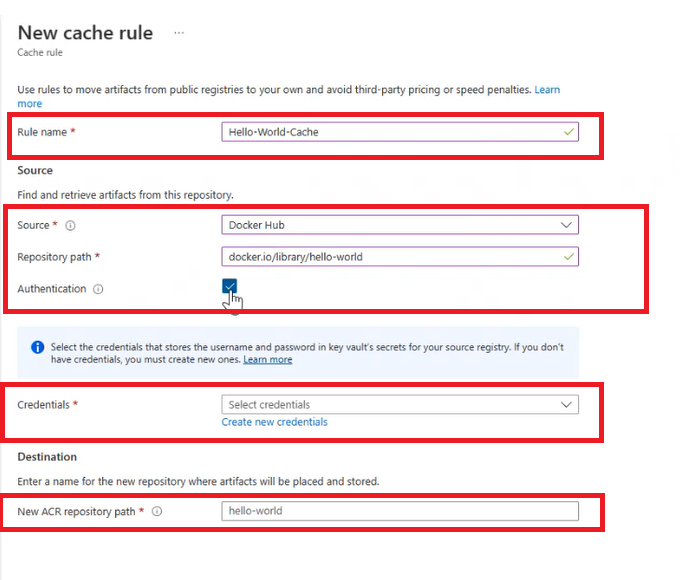
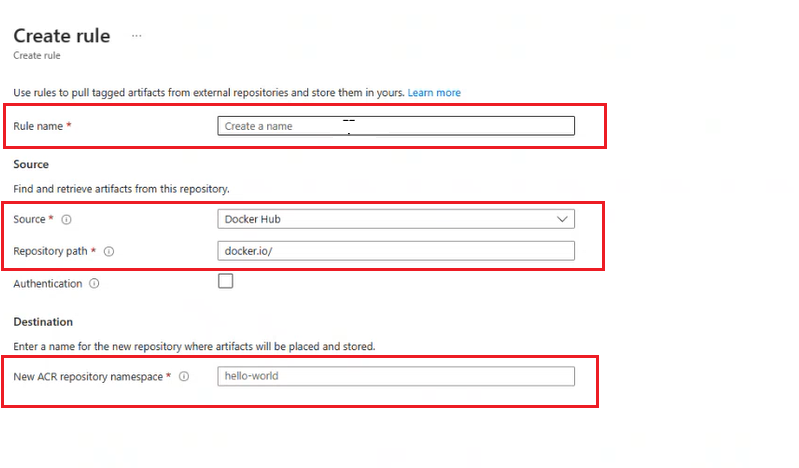
edits for the docker and images

Changed region(s): [[0.0, 0.0299, 0.934, 0.6282], [0.0, 0.6581, 0.8737, 0.9274]]

diff --git a/articles/container-registry/tutorial-registry-cache.md b/articles/container-registry/tutorial-registry-cache.md
@@ -27,8 +27,7 @@ Implementing Caching for ACR provides the following benefits:
 
 ***Private networks:*** Cached registries are available on private networks. Therefore, users can configure their firewall to meet compliance standards. 
 
-***Docker Rate Limit:***  Docker has updated their terms of services to rate limit pulls for customers. The rate limit of the pull depends on the  type of account in use. Caching for ACR allows users to pull images from the cache. Container images pulled from the cache ***do not*** count toward Docker's pull limit. Learn more Docker Hub rate limit [here][docker-rate-limit]. 
-
+***Ensuring upstream content is delivered***: All registries, especially public ones like Docker Hub and others, have anonymous pull limits in order to ensure they can provide services to everyone. Caching for ACR allows users to pull images from the local ACR instead of the upstream registry. This will ensure the content is delivered from upstream and users gets the benefit of pulling the container images from the cache without counting to the pull limits.
  
 ## Terminology 
 

diff --git a/articles/container-registry/tutorial-enable-registry-cache-auth.md b/articles/container-registry/tutorial-enable-registry-cache-auth.md
@@ -38,7 +38,7 @@ Follow the steps to create cache rule in the [Azure portal](https://portal.azure
 4. A window for **New cache rule** appears.
 
 
-    :::image type="content" source="./media/container-registry-registry-cache/new-cache-rule-03.png" alt-text="Screenshot for new Cache Rule.":::
+    :::image type="content" source="./media/container-registry-registry-cache/new-cache-rule-auth-03.png" alt-text="Screenshot for new Cache Rule.":::
 
 
 5. Enter the **Rule name**.
